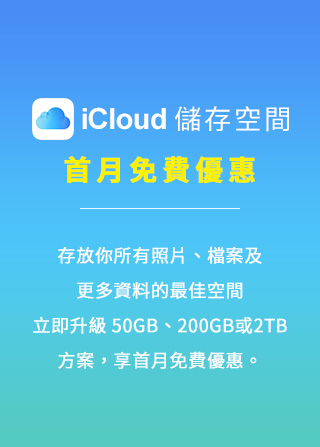
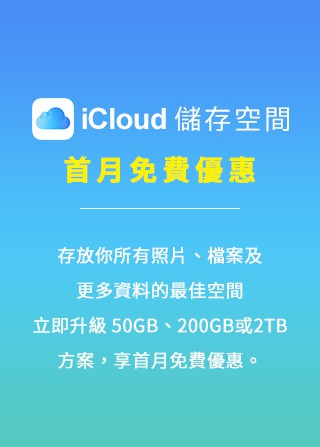
iPhone
新增banner PC/M
移除選單按鈕
方案樣式調整

diff --git a/demo/iPhone/index.html b/demo/iPhone/index.html
@@ -60,6 +60,20 @@
 					</div>
 				</div>
 			</div>
+			<div class="swiper-slide">
+				<div class="main main-index container "> 
+					<div class="addBox desktop-only">
+					    <div class="box">
+					        <a href="https://itunes.emome.net/2019icloudevent" onclick="javascript:ga('send', 'event', 'btn1', 'action', 'icloud');"><img class="index-image-iphone desktop-only" src="assets/images/banner.jpg" ></a>
+					    </div>
+					</div>
+					<div class="addBox mobile-only ">
+						<div class="box ">
+							<a href="https://itunes.emome.net/2019icloudevent" onclick="javascript:ga('send', 'event', 'btn1', 'action', 'icloud');"><img class="index-image-iphone mobile-only " src="assets/images/banner_m.jpg" usemap="#image-mapb02"></a>
+						</div>
+					</div>
+				</div>
+			</div>
 			<!-- text example
 			<div class="swiper-slide">
 				<div class="main main-index container "> 
@@ -85,175 +99,6 @@
 					</div>
 				</div>
 			</div> -->
-			<!-- 20181113
-			<div class="swiper-slide">
-				<div class="main main-index container "> 
-				<div class="addBox">
-					<div class="box desktop-only">
-					<img class="index-image-iphone desktop-only" src="assets/images/index_banner_XR.jpg" usemap="#image-map0">
-					<map name="image-map0">
-						<area onclick="javascript:ga('send', 'event', 'iphoneXR', 'action', 'buyXR_from_bigbanner');" target="_blank" href="https://iphone-eshop.cdn.hinet.net/Next.html" coords="347,444,562,488" shape="rect">
-						<area onclick="javascript:ga('send', 'event', 'iphoneXR', 'action', 'moreXRinfo_from_bigbanner');" href="http://iphone.emome.net/iPhoneXR_promotion.html" coords="615,445,820,492" shape="rect">
-					</map>
-					</div>
-				</div>
-
-					<div class="addBox mobile-only ">
-						<div class="box ">
-							<img class="index-image-iphone mobile-only " src="assets/images/index_banner_XR_m.jpg" usemap="#image-map1">
-							<map name="image-map1">
-								<area onclick="javascript:ga('send', 'event', 'iphoneXR', 'action', 'buyXR_from_bigbanner');" target="_blank" href="https://iphone-eshop.cdn.hinet.net/Next.html" coords="43,216,148,234" shape="rect">
-								<area onclick="javascript:ga('send', 'event', 'iphoneXR', 'action', 'moreXRinfo_from_bigbanner');" href="http://iphone.emome.net/iPhoneXR_promotion.html" coords="175,213,281,236" shape="rect">
-							</map>
-						</div>
-					</div>
-				</div>
-			</div> 
-			<div class="swiper-slide">
-				<div class="main main-index container "> 
-				<div class="addBox">
-						<div class="box desktop-only">
-				<img class="index-image-iphone desktop-only" src="assets/images/index_banner_XS.jpg" usemap="#image-map2">
-				<map name="image-map2">
-					<area target="_blank" onclick="javascript:ga('send', 'event', 'iphoneXS', 'action', 'buy_from_bigbanner');" href="https://iphone-eshop.cdn.hinet.net/Next.html?_ga=2.85044250.2087603591.1537236799-1448243386.1523848672" coords="357,406,557,481" shape="rect">
-					<area onclick="javascript:ga('send', 'event', 'iphoneXS', 'action', 'moreXSinfo_from_bigbanner');" href="iPhoneXS_promotion.html" coords="592,408,788,477" shape="rect">
-				</map>
-				</div>
-				</div>
-
-					<div class="addBox mobile-only ">
-						<div class="box ">
-							<img class="index-image-iphone mobile-only " src="assets/images/index_banner_XS_m.jpg" usemap="#image-map3">
-							<map name="image-map3">
-								<area target="_blank" onclick="javascript:ga('send', 'event', 'iphoneXS', 'action', 'buy_from_bigbanner');" href="https://iphone-eshop.cdn.hinet.net/Next.html?_ga=2.85044250.2087603591.1537236799-1448243386.1523848672" coords="51,519,150,553"  shape="rect">
-								<area onclick="javascript:ga('send', 'event', 'iphoneXS', 'action', 'moreXSinfo_from_bigbanner');" href="iPhoneXS_promotion.html" coords="169,520,267,556" shape="rect">
-							</map>
-						</div>
-					</div>
-				</div>
-			</div> 
-			<!--
-			<div class="swiper-slide">
-				<div class="main main-index container "> 
-				<div class="addBox">
-						<div class="box desktop-only">
-				<img class="index-image-iphone desktop-only" src="assets/images/sale_banner.png" usemap="#image-map">
-
-				<map name="image-map">
-					  <area target="" alt="" title="" href="https://www.cht.com.tw/home/consumer/mobservice/device/phones#!brand:values=apple&headlens:values=100~500&utm_source=iphone.emome.net&utm_medium=referral&utm_campaign=iphone6_sales" coords="451,450,606,501" shape="rect">
-						<area target="" alt="" title="" href="http://iphone.emome.net/new.html" coords="678,452,837,504" shape="0">
-				</map> 
-				</div>
-				</div>
-
-					<div class="addBox mobile-only ">
-						<div class="box ">
-							<img class="index-image-iphone mobile-only " src="assets/images/sale_banner_m.png" usemap="#image-map2">
-						<map name="image-map2">
-							   <area target="" alt="" title="" href="https://www.cht.com.tw/home/consumer/mobservice/device/phones#!brand:values=apple&headlens:values=100~500&utm_source=iphone.emome.net&utm_medium=referral&utm_campaign=iphone6_sales" coords="9,590,129,628" shape="rect">
-								<area target="" alt="" title="" href="http://iphone.emome.net/new.html" coords="186,592,308,630" shape="0">
-						</map>
-						</div>
-					</div>
-				</div>
-			</div> 
-			
-			<div class="swiper-slide">
-				<div class="main main-index container "> 
-				<div class="addBox">
-						<div class="box desktop-only">
-				<img class="index-image-iphone desktop-only" src="assets/images/new_banner_pc.jpg" usemap="#image-map3">
-
-				<map name="image-map3">
-					<area target="" alt="" title="" href="iPhone8_iPhoneX_promotion.html" coords="501,379,717,437" shape="rect">
-				</map> 
-				</div>
-				</div>
-
-					<div class="addBox mobile-only ">
-						<div class="box ">
-							<img class="index-image-iphone mobile-only " src="assets/images/new_banner_m.jpg" usemap="#image-map4">
-						<map name="image-map4">
-							<area target="" alt="" title="" href="iPhone8_iPhoneX_promotion.html" coords="62,590,243,645" shape="rect">
-						</map>
-						</div>
-					</div>
-				</div>
-			</div> 
-			
-			 <div class="swiper-slide">
-				<div class="main main-index container "> 
-				<div class="addBox">
-						<div class="box desktop-only">
-				<img class="index-image-iphone desktop-only" src="assets/images/iPhone_banner_8_red.jpg" usemap="#image-map5">
-
-				<map name="image-map5">
-					<area target="" alt="" title="" href="http://iphone.emome.net/plan_4g.html#iPhone" coords="552,360,427,408" shape="rect">
-					<area target="" alt="" title="" href="http://iphone.emome.net/plan_upgrade.html" coords="815,364,695,404" shape="rect">
-				</map> 
-				</div>
-				</div>
-
-					<div class="addBox mobile-only ">
-						<div class="box ">
-							<img class="index-image-iphone mobile-only " src="assets/images/iPhone_banner_8_red_m.jpg" usemap="#image-map6">
-						<map name="image-map6">
-							<area target="" alt="" title="" href="http://iphone.emome.net/plan_4g.html#iPhone" coords="64,614,130,637" shape="rect">
-							<area target="" alt="" title="" href="http://iphone.emome.net/plan_upgrade.html" coords="214,614,279,634" shape="rect">
-						</map>
-						</div>
-					</div>
-				</div>
-			</div> 
-			
-
-			 <div class="swiper-slide">
-				<div class="main main-index container "> 
-					<img class="index-image-iphone desktop-only" src="assets/images/index_iphone6.jpg">  
-					<h1 class="mobile-center desktop-only addH1">即刻入手iPhone<br>有夠實在</h1>
-					<div class="addBox">
-						<div class="box desktop-only">
-							<p>特定機型限時折價優惠<br>現折$<span>1,500</span>(指定資費)</p>
-						</div>
-						<div class="box desktop-only">
-							<p style="border:none "><a href="iPhone_promo.html" onclick="javascript:ga('send', 'event', 'btn1', 'action', 'new3');" class="btn0 ">看更多優惠</a><a href="https://eshop.cht.com.tw/home/consumer/mobservice/device/phones/000100001905" target="_blank " onclick="javascript:ga( 'send', 'event', 'index17', 'action', 'now3');" class="btn0 ">立即搶購</a></p>
-						</div>
-					</div>
-					<div class="addBox mobile-only ">
-						<div class="box ">
-							<p>特定機型限時折價優惠<br>現折$<span>1,500</span>(指定資費)</p>
-							<img class="index-image-iphone mobile-only " src="assets/images/index_iphone_m6.jpg ">
-							<h1 class="mobile-center mobile-only addH1 ">即刻入手iPhone<br>有夠實在</h1>
-							<p style="margin-top:5px;"><a href="iPhone_promo.html" onclick="javascript:ga('send', 'event', 'btn1', 'action', 'new3');" class="btn0 ">看更多優惠</a><br><a href="https://eshop.cht.com.tw/home/consumer/mobservice/device/phones/000100001905" target="_blank " onclick="javascript:ga( 'send', 'event', 'index17', 'action', 'now3');" class="btn0 ">立即搶購</a></p>
-						</div>
-					</div>
-				</div>
-			</div> 
-					
-			 <div class="swiper-slide">
-				<div class="main main-index container "> <img class="index-image-iphone desktop-only" src="assets/images/index_iphone.jpg"> <img class="index-image-big4g  desktop-only" src="assets/images/index_big4g2.png?2017">
-					<h1 class="mobile-center desktop-only addH1">配iPhone 8 每一刻都精彩</h1>
-					<div class="addBox">
-						<div class="box desktop-only">
-							<p> 實體/中華電信官網<br>全面開賣</p>
-						</div>
-						<div class="box desktop-only">
-							<p style="border:none "><a href="http://iphone.emome.net/alliPhone_price.html " onclick="javascript:ga( 'send', 'event', 'btn1', 'action', 'new2'); " class="btn0 ">看更多優惠</a><a href="https://eshop.cht.com.tw/Web/Personal/Mobile?megaID=EEC9728D-EEAA-4965-925C-0E9EB97A3658#brands=APPLE&keyword=iPhone+8&utm_source=emome.net&utm_medium=referral&utm_campaign=iphone8utm_content=action " target="_blank " onclick="javascript:ga( 'send', 'event', 'index17', 'action', 'now2'); " class="btn0 ">立即搶購</a></p>
-						</div>
-					</div>
-					<div class="addBox mobile-only ">
-						<div class="box ">
-							<p>  實體/中華電信官網<br>全面開賣</p>
-							<img class="index-image-iphone mobile-only " src="assets/images/index_iphone_m.jpg ">
-							<img class="index-image-big4g mobile-only " src="assets/images/index_big4g2.png?2017 ">
-							<h1 class="mobile-center mobile-only addH1 ">配iPhone 8 每一刻都精彩</h1>
-							<p><a href="http://iphone.emome.net/alliPhone_price.html " onclick="javascript:ga( 'send', 'event', 'btn1', 'action', 'new2'); " class="btn0 ">看更多優惠</a><br><a href="https://eshop.cht.com.tw/Web/Personal/Mobile?megaID=EEC9728D-EEAA-4965-925C-0E9EB97A3658#brands=APPLE&keyword=iPhone+8&utm_source=emome.net&utm_medium=referral&utm_campaign=iphone8utm_content=action " target="_blank " onclick="javascript:ga( 'send', 'event', 'index17', 'action', 'now2'); " class="btn0 ">立即搶購</a></p>
-						</div>
-					</div>
-				</div>
-			</div>
-			-->
-			<!--20181113-->
 		</div>
 
 		<div class="swiper-pagination "></div>

diff --git a/demo/iPhone/element/header.html b/demo/iPhone/element/header.html
@@ -19,7 +19,6 @@
                     <li><a href="https://iphone-eshop.cdn.hinet.net/Next.html" target="_blank" onclick="javascript:ga('send', 'event', 'index17', 'action', 'iPhone11discount0912');">iPhone 11 優惠</a></li>
                     <li><a href="applecare.html" target="_blank" onclick="javascript:ga('send', 'event', 'index17', 'action', ' applecare');">AppleCare+</a></li>
                     <li><a href="https://itunes.emome.net/2019icloudevent" onclick="javascript:ga('send', 'event', 'index17', 'action', 'iclouddiscount');">iCloud升級優惠</a></li>
-                    <li><a href="2019_renew.html" onclick="javascript:ga('send', 'event', 'index17', 'action', '2019newmiracle');">新奇機重現Plus</a></li>
                     <li><a href="eSIM.html" onclick="javascript:ga('send', 'event', 'index17', 'action', 'eSim');">eSIM服務</a></li>
                     <!--
                     <li class="desktop-only"><a href="https://www.emome.net/channel?chid=923" target="_blank" onclick="javascript:ga('send', 'event', 'index17', 'action', 'foxplus_from_menubarnewoffer');">FOX+首年免月租</a></li>-->

diff --git a/demo/iPhone/assets/css/app.css b/demo/iPhone/assets/css/app.css
@@ -2140,7 +2140,7 @@ a {
 }
 
 .main-rateplan .plan-table .table3 td:last-of-type {
-  /*color: #ff0000;*/
+  color: #ff0000;
 }
 
 .main-rateplan.rateplan-hami {
